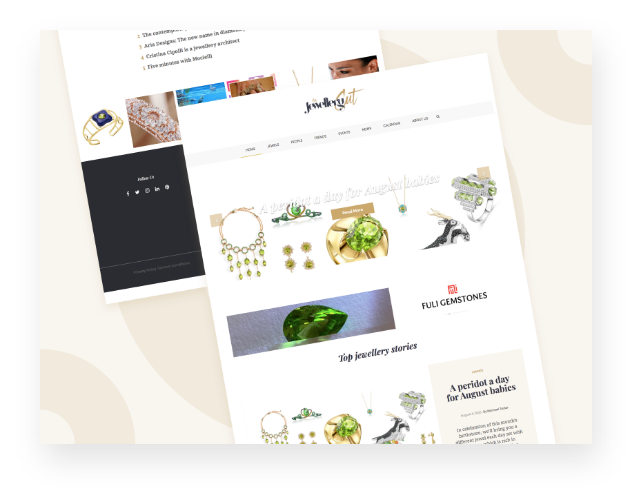
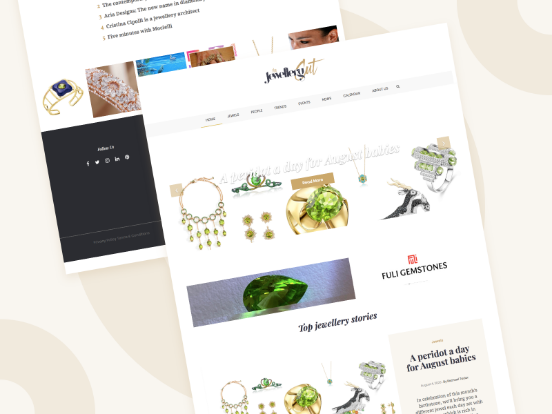
:tshirt: header

diff --git a/index.html b/index.html
@@ -22,13 +22,12 @@
   </head>
   <body>
     <div class="sectionOne backOne text-white">
-      <div class="background-col"></div>
+      <span class="background-col"></span>
       <div class="container">
         <nav class="navbar navbar-expand-md navbar-light bg-transparent m-0">
           <img src="img/Group 2519.png" class="img img-fluid navbar-brand" alt="" />
           <button
-            class="navbar-toggler m-0"
-            type="button"
+            class="navbar-toggler"
             data-toggle="collapse"
             data-target="#navbarNavAltMarkup"
             aria-controls="navbarNavAltMarkup"
@@ -39,14 +38,14 @@
           </button>
           <div class="collapse navbar-collapse" id="navbarNavAltMarkup">
             <div class="navbar-nav m-auto">
-              <a class="" id="is-active" href="#">Home</a>
-              <a class="" href="#">About</a>
-              <a class="" href="#">Services</a>
-              <a class="" href="#">Blog</a>
+              <a class="py-3" style="box-shadow: 0 -3px white;">Home</a>
+              <a class="py-3" href="#">About</a>
+              <a class="py-3" href="#">Services</a>
+              <a class="py-3" href="#">Blog</a>
             </div>
             <div class="navbar-nav ml-auto">
               <div class="">
-                <button class="btn btn-primary rounded-pill py-1 px-3">Request a Quote</button>
+                <button class="btn btn-primary rounded-pill py-2 px-3">Request a Quote</button>
               </div>
               <!-- <a href=""><i class="ri-menu-3-fill"></i></a> -->
             </div>
@@ -61,7 +60,7 @@
                 Lorem ipsum dolor sit amet consectetur adipisicing elit. Exercitationem, enim
                 provident? Perferendis laboriosam iusto tempore.
               </p>
-              <button class="btn btn-primary rounded-pill py-2 px-5">Contact us</button>
+              <button class="btn btn-white my-bold rounded-pill py-2 px-5">Contact us</button>
             </div>
           </div>
           <div class="col-md-6">
@@ -145,7 +144,7 @@
                 corrupti. Laboriosam libero cupiditate ipsum est! Quia rerum iure culpa commodi!
                 Minus vero, sint quam fuga illum suscipit voluptatibus rerum voluptatum possimus!
               </p>
-              <button class="btn btn-primary rounded-pill py-2 px-4">Explore More</button>
+              <button class="btn btn-primary rounded-pill my-bold py-2 px-4">Explore More</button>
             </div>
           </div>
         </div>
@@ -182,6 +181,29 @@
               Lorem ipsum dolor sit amet consectetur adipisicing elit. Suscipit tempora sint cum,
               cupiditate natus ducimus quasi dolore aut illum repellat.
             </p>
+          </div>
+        </div>
+      </div>
+    </div>
+
+    <div class="section-5 backOne py-3">
+      <div class="container">
+        <div class="row">
+          <div class="col-md-6 my-center">
+            <div>
+              <p class="text-danger">Who We Are?</p>
+              <h4>A collection of our latest work</h4>
+              <p>
+                Lorem ipsum dolor sit amet, consectetur adipisicing elit. Accusamus architecto ut in
+                nemo illo excepturi at quam sapiente, dolore earum? Lorem ipsum dolor sit amet.
+              </p>
+              <div>
+                
+              </div>
+            </div>
+          </div>
+          <div class="col-md-6">
+            <img src="img/Rectangle -1.png" class="img img-fluid" alt="" />
           </div>
         </div>
       </div>

diff --git a/style/style.css b/style/style.css
@@ -1,5 +1,5 @@
 .backOne {
-  background-color: #fcf2f2;
+  background-color: #fcf4f4;
 }
 
 .backTwo {
@@ -8,6 +8,7 @@
 
 .sectionOne {
   height: 100vh;
+  top: 0;
 }
 .sectionOne a {
   text-decoration: none;
@@ -20,7 +21,9 @@
 .background-col {
   height: inherit;
   width: 73%;
-  background-color: #273144;
+  background-color: #203141;
+  background-image: url("../img/bg header.png");
+  background-size: 150%;
   position: absolute;
   top: 0;
   left: 0;
@@ -36,11 +39,6 @@
 
 nav img {
   width: 60px;
-}
-nav a .is-active {
-  background-color: rebeccapurple;
-  font-size: 10px;
-  border-top: 5px solid red !important;
 }
 
 .my-center {
@@ -61,7 +59,7 @@ nav a .is-active {
 }
 
 .service-card {
-  background-color: #fcf2f2;
+  background-color: #fcf4f4;
   border-radius: 20px;
   height: 400px;
 }
@@ -74,7 +72,7 @@ nav a .is-active {
   width: 100px;
   border-radius: 50%;
   padding: 30px;
-  background-color: #fcf2f2;
+  background-color: #fcf4f4;
   position: absolute;
   left: 50%;
   transform: translate(-50%, -50%);

diff --git a/style/style.scss b/style/style.scss
@@ -1,4 +1,5 @@
-$backOne: #fcf2f2;
+$clrPrimary: #203141;
+$backOne: #fcf4f4;
 $backTwo: #fff;
 
 body {
@@ -15,6 +16,7 @@ body {
 .sectionOne {
   height: 100vh;
   // overflow: hidden;
+  top: 0;
 
   a {
     text-decoration: none;
@@ -28,7 +30,9 @@ body {
 .background-col {
   height: inherit;
   width: 73%;
-  background-color: #273144;
+  background-color: $clrPrimary;
+  background-image: url("../img/bg\ header.png");
+  background-size: 150% ;
   position: absolute;
   top: 0;
   left: 0;
@@ -45,12 +49,6 @@ body {
 nav {
   img {
     width: 60px;
-  }
-
-  a .is-active {
-    background-color: rebeccapurple;
-    font-size: 10px;
-    border-top: 5px solid red !important;
   }
 }
 
@@ -76,7 +74,6 @@ nav {
   border-radius: 20px;
   height: 400px;
 }
-
 
 .btn-white {
   background-color: white;

diff --git a/js/script.js b/js/script.js
@@ -1,3 +1,3 @@
 
-document.getElementById("is-active").style.cssText = "box-shadow: 0px -10px"; 
+// document.getElementById("is-active").style.cssText = "box-shadow: 0px -5px"; 
 
